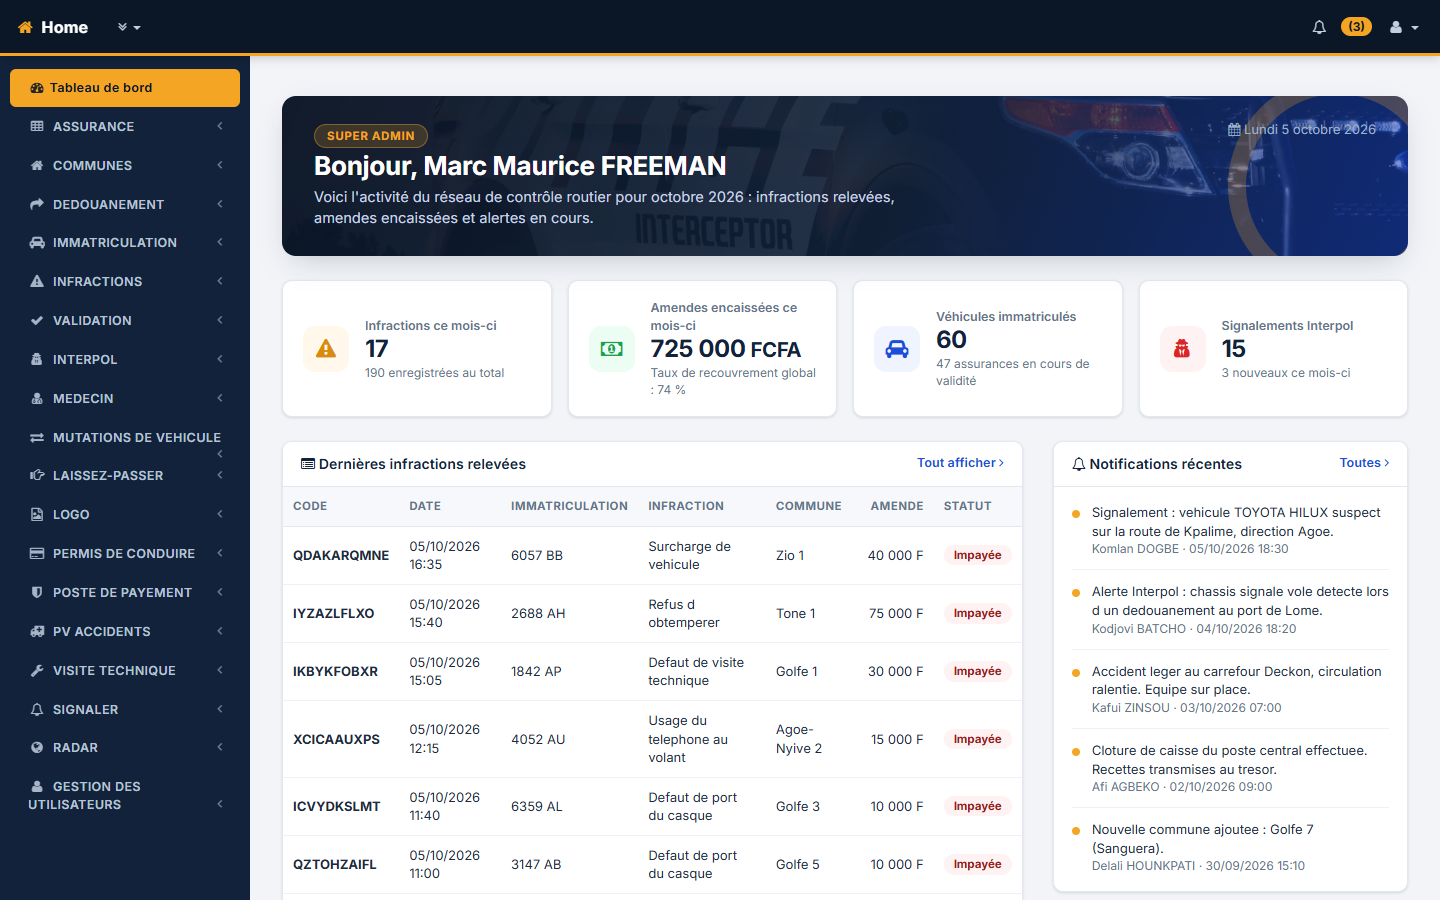
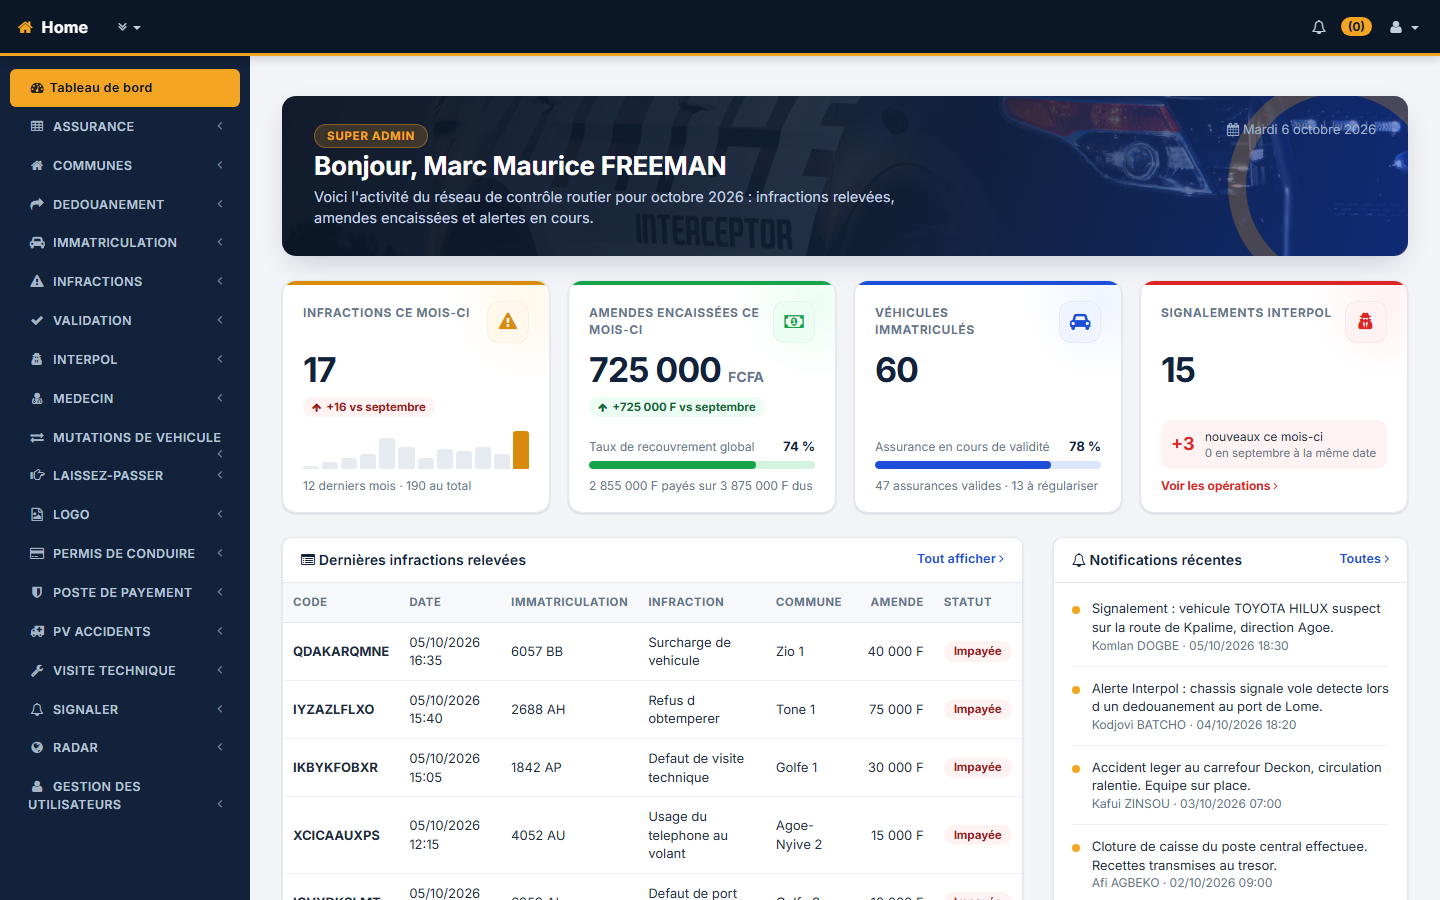
Met en couverture le nouvel accueil de Flash Contrôle Routier
La carte du projet affiche désormais l'accueil refait (indicateurs avec
tendance, mini-histogramme et jauges) au lieu de la grille des modules.
La capture de l'accueil dans la galerie est mise à jour.

diff --git a/src/data/projects.ts b/src/data/projects.ts
@@ -841,7 +841,7 @@ export const projects: Project[] = [
       },
     ],
     impact: pending,
-    image: "/images/flash-controle-routier/captures/03-tableau-de-bord.png",
+    image: "/images/flash-controle-routier/captures/02-accueil.png",
     gallery: [
       {
         src: "/images/flash-controle-routier/captures/01-connexion.png",
